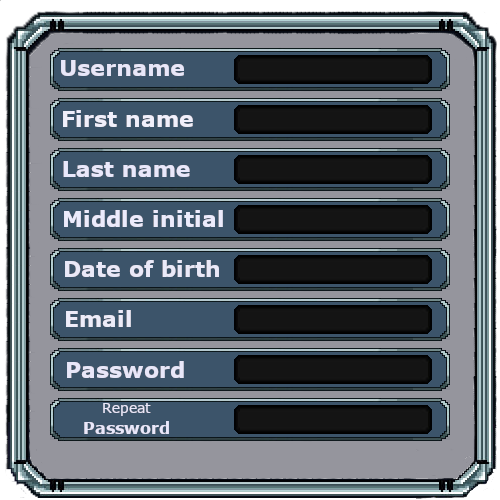
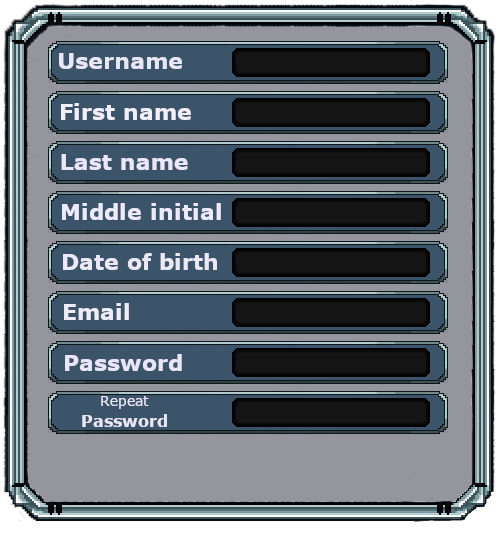
Made changes to the signupEntry image to make room for buttons at the bottom. Also had to change the padding for the signup table that holds the textfields.

diff --git a/core/src/com/vv/game/utils/SignUpEntry.java b/core/src/com/vv/game/utils/SignUpEntry.java
@@ -4,7 +4,10 @@ import com.badlogic.gdx.graphics.Color;
 import com.badlogic.gdx.graphics.Texture;
 import com.badlogic.gdx.graphics.g2d.Batch;
 import com.badlogic.gdx.graphics.g2d.BitmapFont;
+import com.badlogic.gdx.graphics.g2d.TextureRegion;
+import com.badlogic.gdx.graphics.glutils.ShapeRenderer;
 import com.badlogic.gdx.scenes.scene2d.Stage;
+import com.badlogic.gdx.scenes.scene2d.ui.ImageButton;
 import com.badlogic.gdx.scenes.scene2d.ui.Table;
 import com.badlogic.gdx.scenes.scene2d.ui.TextField;
 import com.badlogic.gdx.scenes.scene2d.utils.TextureRegionDrawable;
@@ -23,6 +26,8 @@ public class SignUpEntry {
     private TextField email;
     private TextField password;
     private TextField passwordVerified;
+    private ImageButton enterButton;
+    private ImageButton backButton;
     private Stage stage;
     private boolean active = false;
 
@@ -31,7 +36,7 @@ public class SignUpEntry {
         background = new Texture("screens" + File.separator + "SignUpEntry.png");
 
         table = new Table();
-        table.bottom().padBottom(356).padLeft(148);
+        table.bottom().padBottom(294).padRight(50);
         table.setFillParent(true);
 
         TextField.TextFieldStyle style = new TextField.TextFieldStyle();
@@ -73,37 +78,49 @@ public class SignUpEntry {
         passwordVerified.setPasswordMode(true);
         passwordVerified.setMaxLength(32);
 
+        Texture textureUp = new Texture("buttons" + File.separator + "EnterButton.png");
+        TextureRegion textureRegionUp = new TextureRegion(textureUp);
+        enterButton = new ImageButton(new TextureRegionDrawable(textureRegionUp));
+
+        textureUp = new Texture("buttons" + File.separator + "BackButton.png");
+        textureRegionUp = new TextureRegion(textureUp);
+        backButton = new ImageButton(new TextureRegionDrawable(textureRegionUp));
+
         stage.addActor(table);
     }
 
     public void setActive(boolean active){
         if(active){
+            table.row().padBottom(PADDING_INBETWEEN).padTop(PADDING_INBETWEEN);
+            table.add().width(180);
             table.add(userName);
             table.row().padBottom(PADDING_INBETWEEN).padTop(PADDING_INBETWEEN);
+            table.add();
             table.add(firstName);
             table.row().padBottom(PADDING_INBETWEEN).padTop(PADDING_INBETWEEN);
+            table.add();
             table.add(lastName);
             table.row().padBottom(PADDING_INBETWEEN).padTop(PADDING_INBETWEEN);
+            table.add();
             table.add(middleInitial);
             table.row().padBottom(PADDING_INBETWEEN).padTop(PADDING_INBETWEEN);
+            table.add();
             table.add(dateOfBirth);
             table.row().padBottom(PADDING_INBETWEEN).padTop(PADDING_INBETWEEN);
+            table.add();
             table.add(email);
             table.row().padBottom(PADDING_INBETWEEN).padTop(PADDING_INBETWEEN);
+            table.add();
             table.add(password);
             table.row().padBottom(PADDING_INBETWEEN).padTop(PADDING_INBETWEEN);
+            table.add();
             table.add(passwordVerified);
-            table.row().padBottom(PADDING_INBETWEEN).padTop(PADDING_INBETWEEN);
+            table.row().padBottom(PADDING_INBETWEEN-1f).padTop(PADDING_INBETWEEN-1f);
+            table.add(backButton);
+            table.add(enterButton);
         }
         else{
-            table.removeActor(userName);
-            table.removeActor(firstName);
-            table.removeActor(lastName);
-            table.removeActor(middleInitial);
-            table.removeActor(dateOfBirth);
-            table.removeActor(email);
-            table.removeActor(password);
-            table.removeActor(passwordVerified);
+            table.clear();
         }
         this.active = active;
     }
@@ -111,7 +128,7 @@ public class SignUpEntry {
     public boolean isActive(){ return active; }
 
     public void draw(Batch batch){
-        batch.draw(background, 250, 300);
+        batch.draw(background, 250, 260);
     }
 
     public String getUserInputUsername() { return userName.getText(); }
@@ -135,6 +152,17 @@ public class SignUpEntry {
             passwordVerified.setText("");
         }
         return result;
+    }
+
+    public String getButtonPressed(){
+        String temp = "none";
+        if(backButton.isPressed()){
+            temp = "back";
+        }
+        if(enterButton.isPressed()){
+            temp = "enter";
+        }
+        return temp;
     }
 
     public void userNameTaken(){

diff --git a/core/src/com/vv/game/utils/Database.java b/core/src/com/vv/game/utils/Database.java
@@ -9,10 +9,10 @@ import java.sql.DriverManager;
  */
 public class Database {
     //TODO Change name,url,user,password
-    private static final String DATABASE_NAME = "username";
+    private static final String DATABASE_NAME = "schwankew";
     private static final String DATABASE_URL = "localhost";
-    private static final String DATABASE_USER = "username";
-    private static final String DATABASE_PASSWORD = "password";
+    private static final String DATABASE_USER = "schwankew";
+    private static final String DATABASE_PASSWORD = "OWlu82PMrs@*";
     private static final String DATABASE_DRIVER = "org.postgresql.Driver";
     private Connection connection;
     private static final Database instance = new Database();
@@ -76,7 +76,7 @@ public class Database {
      * @param user stores the information that user entered
      */
     public boolean insertUser(User user) {
-        int returnValue = 0;
+        int rowsAffected = 0;
         Statement statement;
 
         String query = "INSERT INTO vidar_voyager.users"
@@ -106,25 +106,24 @@ public class Database {
 
         try {
             statement = connection.createStatement();
-            returnValue = statement.executeUpdate(query);
+            rowsAffected = statement.executeUpdate(query);
         } catch (Exception e) {
             System.out.println(e);
         }
 
         //ADD USER TO ACCOUNTS TABLE
-        if (returnValue != 0) {
+        if (rowsAffected != 0) {
             String query2 = "INSERT INTO vidar_voyager.accounts (user_id, password) VALUES ("
                     + "(SELECT id FROM vidar_voyager.users WHERE username = '" + user.getUsername() + "'),"
                     + "crypt('" + user.getPassword() + "', gen_salt('bf')));";
             try {
                 statement = connection.createStatement();
-                returnValue = statement.executeUpdate(query2);
+                rowsAffected = statement.executeUpdate(query2);
             } catch (Exception e) {
-                returnValue = 0;
                 System.out.println(e);
             }
         }
-        return returnValue != 0;
+        return rowsAffected != 0;
     }
 
     /**
@@ -239,6 +238,4 @@ public class Database {
             System.out.println(e + " " + returnValue + " tables returned");
         }
     }
-
-
 }

diff --git a/core/src/com/vv/game/screens/MainMenu.java b/core/src/com/vv/game/screens/MainMenu.java
@@ -152,13 +152,17 @@ public class MainMenu extends AbstractScreen {
         user.setEmail(signUpEntry.getUserInputEmail());
         user.setPassword(signUpEntry.getUserInputPassword());
 
-        Database db = Database.getInstance();
+        if(user.hasValidData()) {
+            Database db = Database.getInstance();
 
-        if(!db.checkUsernameTaken(user)){
-            success = db.insertUser(user);
+            if (!db.checkUsernameTaken(user)) {
+                success = db.insertUser(user);
+            } else {
+                signUpEntry.userNameTaken();
+            }
         }
         else{
-            signUpEntry.userNameTaken();
+            System.out.println("Invalid data");
         }
         return success;
     }
@@ -179,6 +183,28 @@ public class MainMenu extends AbstractScreen {
         }
         if(window2x < -VidarVoyager.APP_WIDTH){
             window2x = 0;
+        }
+        String temp = "";
+        if(signUpEntry.isActive()) {
+            temp = signUpEntry.getButtonPressed();
+            if(temp.equals("back")) {
+                signUpEntry.setActive(false);
+                table.add(logInButton);
+                table.add(signUpButton);
+                table.add(guestButton);
+            }
+        }
+        if(logInEntry.isActive()) {
+            temp = logInEntry.getButtonsPressed();
+            if(temp.equals("back")) {
+                logInEntry.setActive(false);
+                table.add(logInButton);
+                table.add(signUpButton);
+                table.add(guestButton);
+            }
+        }
+        if(temp.equals("enter")){
+            keyDown(Input.Keys.ENTER);
         }
     }
 

diff --git a/core/src/com/vv/game/utils/LogInEntry.java b/core/src/com/vv/game/utils/LogInEntry.java
@@ -86,6 +86,17 @@ public class LogInEntry {
 
     public String getUserInputPassword() { return password.getText(); }
 
+    public String getButtonsPressed(){
+        String temp = "none";
+        if(backButton.isPressed()){
+            temp = "back";
+        }
+        if(enterButton.isPressed()){
+            temp = "back";
+        }
+        return temp;
+    }
+
     public void failedLogIn(){
         userName.setColor(Color.RED);
         password.setColor(Color.RED);

diff --git a/core/src/com/vv/game/VidarVoyager.java b/core/src/com/vv/game/VidarVoyager.java
@@ -18,7 +18,7 @@ import com.vv.game.utils.User;
  */
 public class VidarVoyager implements ApplicationListener {
 	// set to false when not debugging. This will control the debug renderer
-	public static final boolean debugging = false;
+	public static final boolean debugging = true;
 	public static final int APP_WIDTH = 1000;
 	public static final int APP_HEIGHT = 1000;
 	public static final float PPM = 100;

diff --git a/core/src/com/vv/game/utils/User.java b/core/src/com/vv/game/utils/User.java
@@ -13,6 +13,10 @@ public class User {
 
     private User(){}
 
+    public boolean hasValidData(){
+        return !username.isEmpty() || !firstName.isEmpty() || !lastName.isEmpty() || !email.isEmpty() || !password.isEmpty();
+    }
+
     public static User getInstance(){ return instance; }
 
     public String getUsername(){ return username; }
